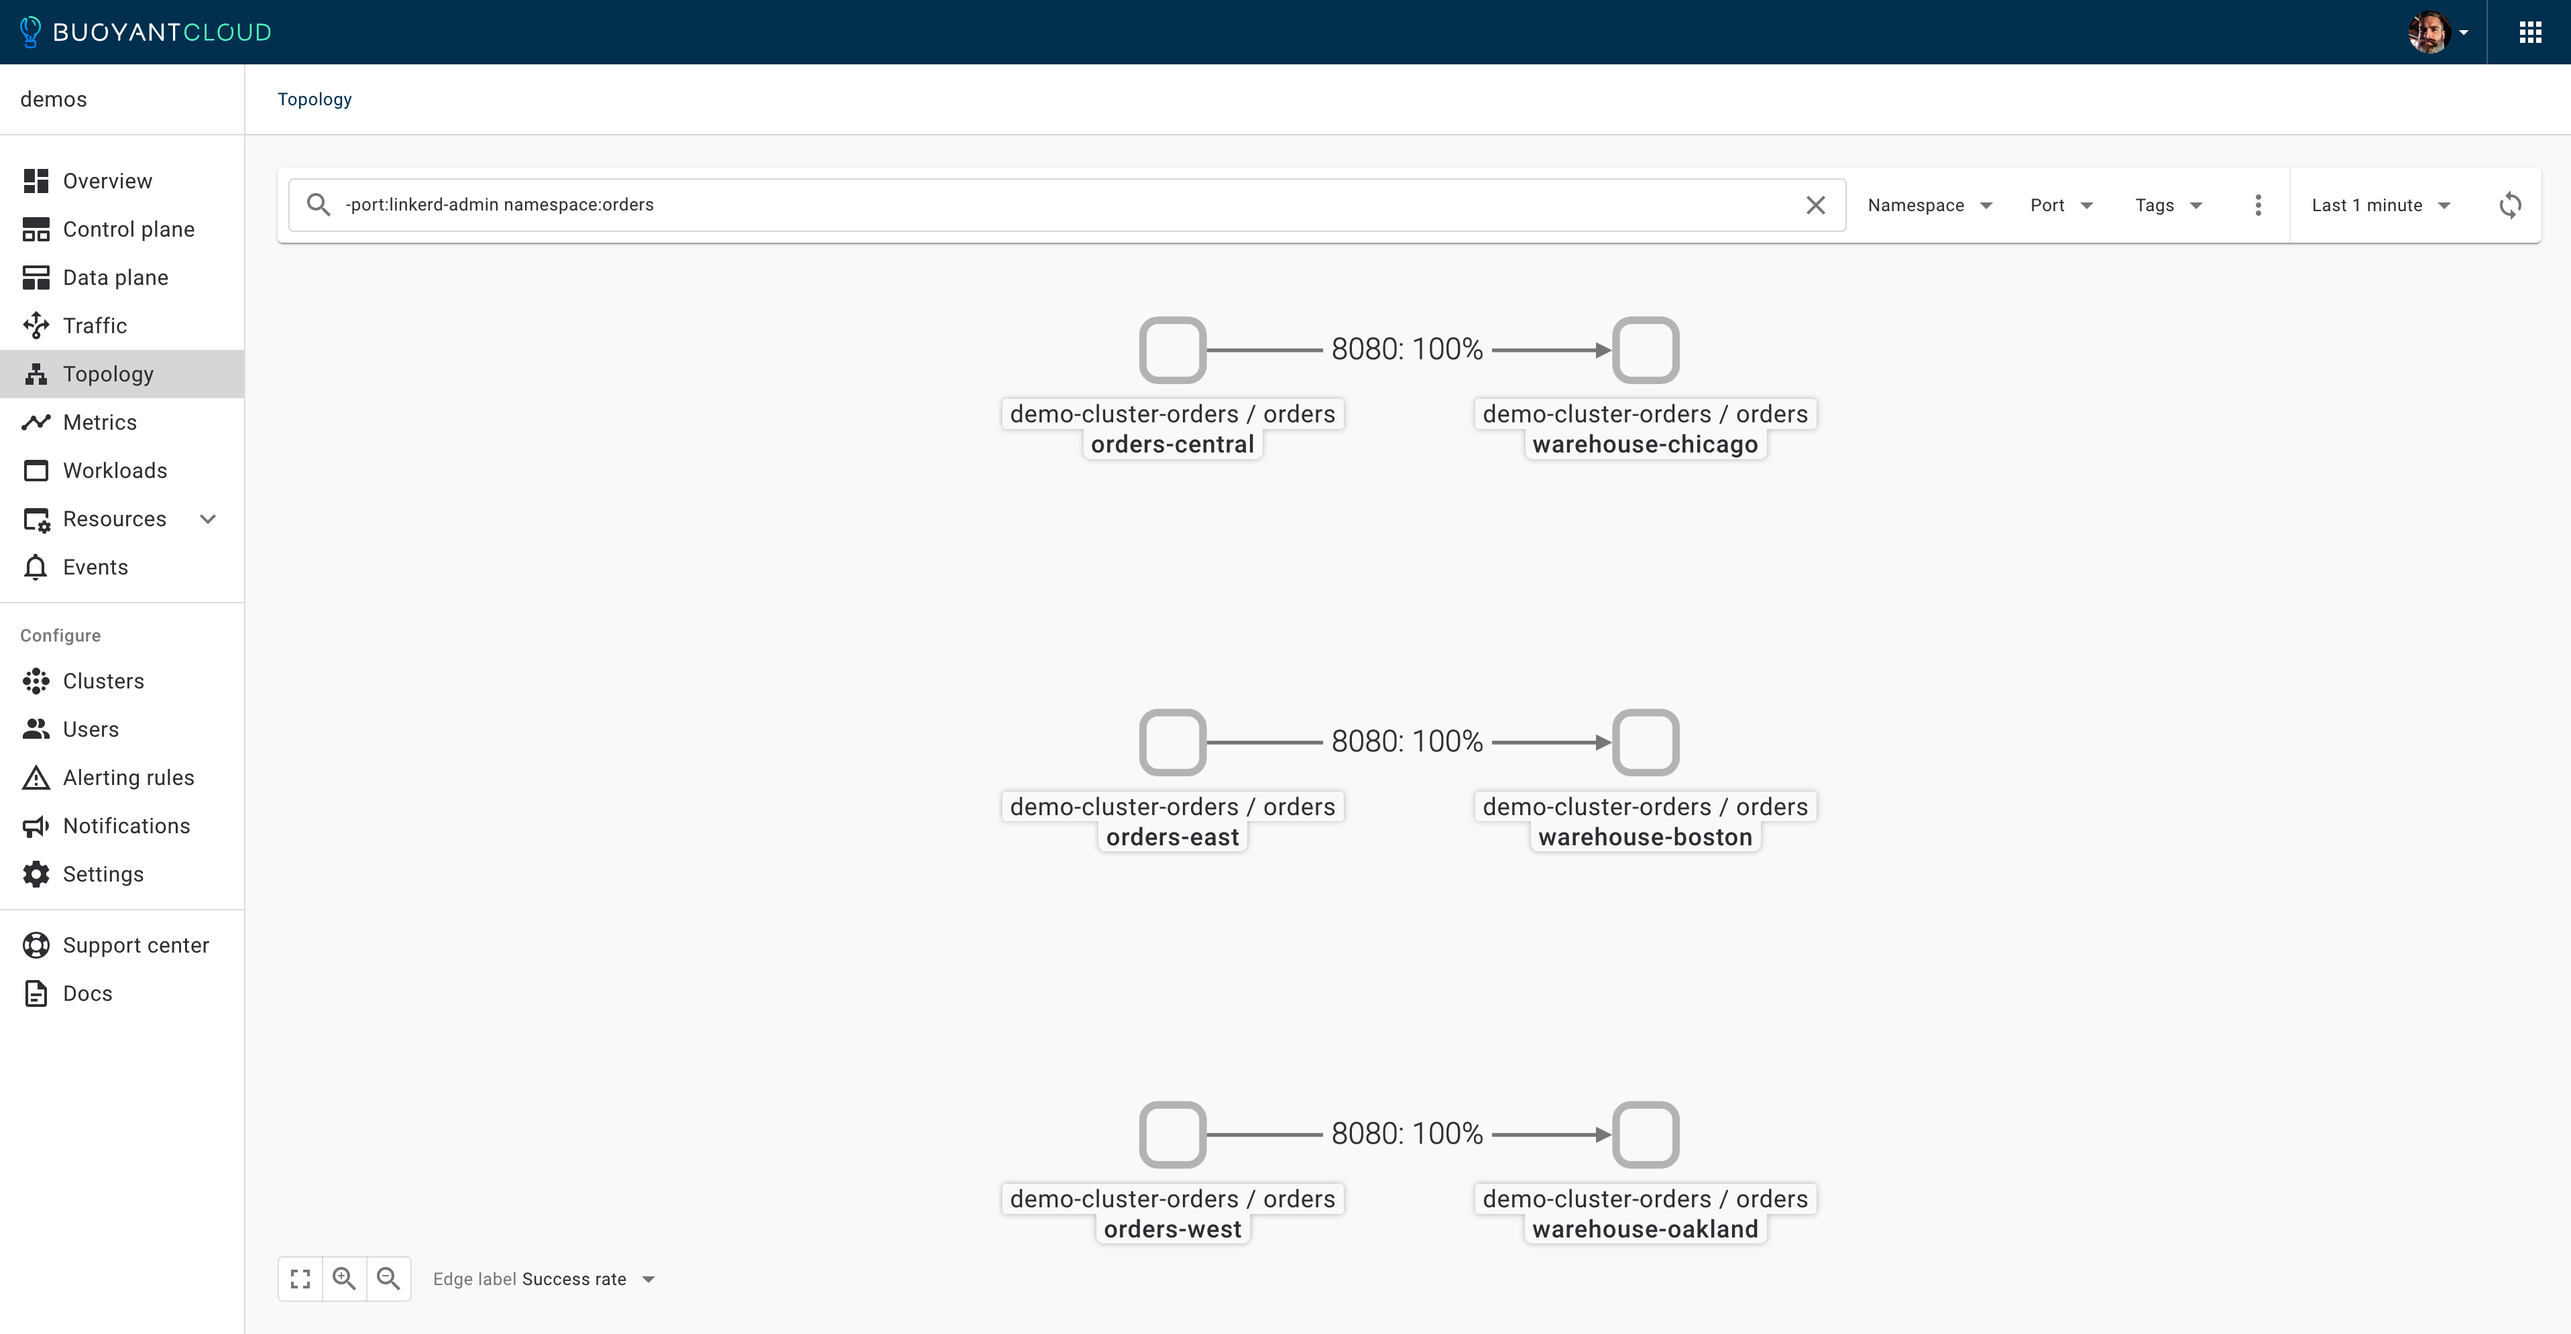
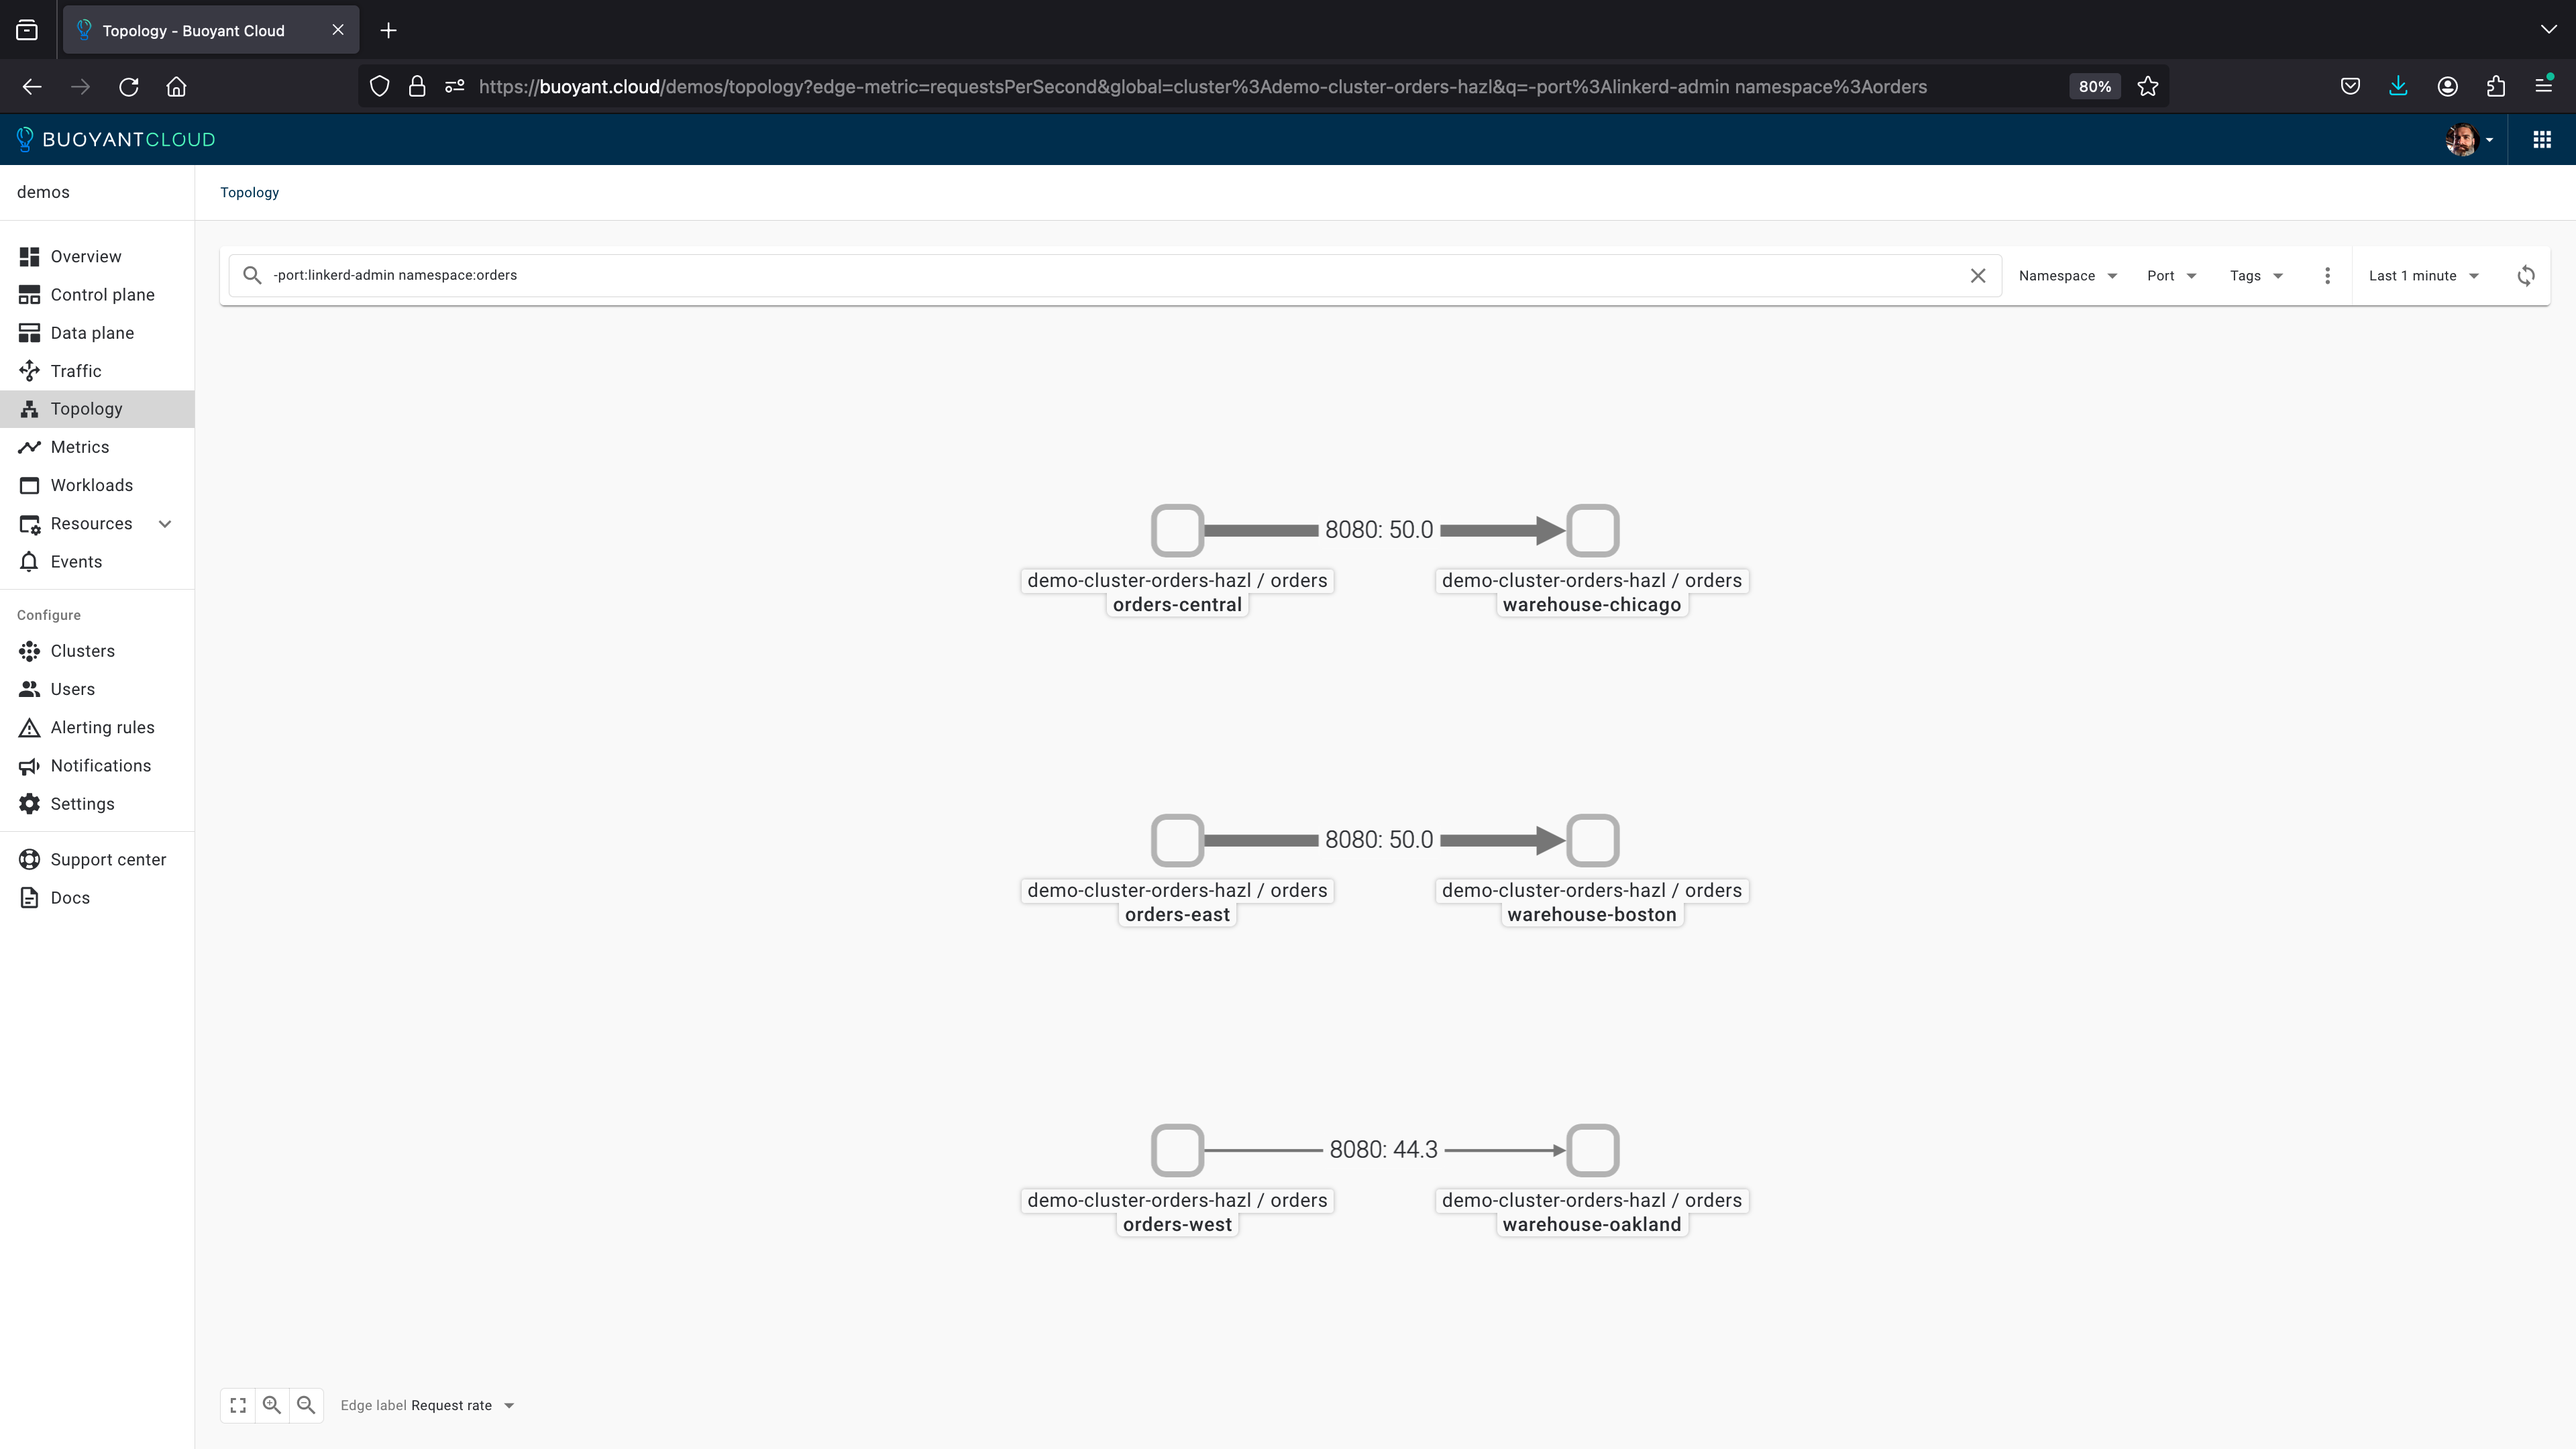
Work on README.md.  Added images.

diff --git a/eliminate-cross-zone-traffic-hazl/README.md b/eliminate-cross-zone-traffic-hazl/README.md
@@ -708,6 +708,10 @@ Let's take a look at traffic flow _without **HAZL** enabled_ in **Buoyant Cloud*
 
 ![Buoyant Cloud: Topology](images/orders-no-hazl-bcloud.png)
 
+![Grafana: HAZL Dashboard](images/orders-no-hazl-grafana.png)
+
+![Deployments / HPA](images/orders-no-hazl-deployments-hpa.png)
+
 We can see...
 
 ### Enable High Availability Zonal Load Balancing (HAZL)
@@ -736,6 +740,12 @@ Let's take a look at what traffic looks like with **HAZL** enabled, using **Buoy
 
 ![Buoyant Cloud: Topology](images/orders-hazl-bcloud.png)
 
+![Grafana: HAZL Dashboard](images/orders-hazl-grafana.png)
+
+![Deployments / HPA](images/orders-hazl-deployments-hpa.png)
+
+We can see...
+
 ### Increase Orders Traffic in `zone-east`
 
 A popular sitcom 
@@ -756,13 +766,13 @@ watch -n 1 kubectl get deploy,hpa -n orders
 
 Let's take a look at what the increased traffic looks like in **Buoyant Cloud**. This will give us a more visual representation of the effect of **HAZL** on our traffic.
 
-![Buoyant Cloud: Topology](images/orders-hazl-increased-load-bcloud.png)
+![Buoyant Cloud: Topology](images/orders-hazl-increased-east-bcloud.png)
 
-![Grafana: Dashboard](images/orders-hazl-increased-load-grafana.png)
+![Grafana: HAZL Dashboard](images/orders-hazl-increased-east-grafana.png)
+
+![Deployments / HPA](images/orders-hazl-increased-east-deployments-hpa.png)
 
 We can see...
-
-<<Explain what we're seeing here>>
 
 ### Increase Orders Traffic in `zone-central`
 
@@ -784,13 +794,13 @@ watch -n 1 kubectl get deploy,hpa -n orders
 
 Let's take a look at what the increased traffic looks like in **Buoyant Cloud**. This will give us a more visual representation of the effect of **HAZL** on our traffic.
 
-![Buoyant Cloud: Topology](images/orders-hazl-increased-load-bcloud.png)
+![Buoyant Cloud: Topology](images/orders-hazl-increased-central-bcloud.png)
 
-![Grafana: Dashboard](images/orders-hazl-increased-load-grafana.png)
+![Grafana: HAZL Dashboard](images/orders-hazl-increased-central-grafana.png)
+
+![Deployments / HPA](images/orders-hazl-increased-central-deployments-hpa.png)
 
 We can see...
-
-<<Explain what we're seeing here>>
 
 ### Increase Orders Traffic in `zone-west`
 
@@ -812,13 +822,13 @@ watch -n 1 kubectl get deploy,hpa -n orders
 
 Let's take a look at what the increased traffic looks like in **Buoyant Cloud**. This will give us a more visual representation of the effect of **HAZL** on our traffic.
 
-![Buoyant Cloud: Topology](images/orders-hazl-increased-load-bcloud.png)
+![Buoyant Cloud: Topology](images/orders-hazl-increased-west-bcloud.png)
 
-![Grafana: Dashboard](images/orders-hazl-increased-load-grafana.png)
+![Grafana: HAZL Dashboard](images/orders-hazl-increased-west-grafana.png)
+
+![Deployments / HPA](images/orders-hazl-increased-west-deployments-hpa.png)
 
 We can see...
-
-<<Explain what we're seeing here>>
 
 ### Increase Latency in `zone-central`
 
@@ -861,13 +871,13 @@ kubectl rollout restart -n orders deploy warehouse-chicago
 
 Let's take a look at what the increased latency looks like in **Buoyant Cloud**. This will give us a more visual representation of the effect of **HAZL** on our traffic in response to increased latency.
 
-![Buoyant Cloud: Topology](images/orders-hazl-increased-load-bcloud.png)
+![Buoyant Cloud: Topology](images/orders-hazl-increased-latency-bcloud.png)
 
-![Grafana: Dashboard](images/orders-hazl-increased-load-grafana.png)
+![Grafana: HAZL Dashboard](images/orders-hazl-increased-latency-grafana.png)
+
+![Deployments / HPA](images/orders-hazl-increased-latency-deployments-hpa.png)
 
 We can see...
-
-<<Explain what we're seeing here>>
 
 ### Take the `warehouse-chicago` Deployment Offline in `zone-central`
 
@@ -889,13 +899,13 @@ watch -n 1 kubectl get deploy,hpa -n orders
 
 Let's take a look at what the increased traffic looks like in **Buoyant Cloud**. This will give us a more visual representation of the effect of **HAZL** on our traffic.
 
-![Buoyant Cloud: Topology](images/orders-hazl-increased-load-bcloud.png)
+![Buoyant Cloud: Topology](images/orders-hazl-chicago-offline-bcloud.png)
 
-![Grafana: Dashboard](images/orders-hazl-increased-load-grafana.png)
+![Grafana: HAZL Dashboard](images/orders-hazl-chicago-offline-grafana.png)
+
+![Deployments / HPA](images/orders-hazl-chicago-offline-deployments-hpa.png)
 
 We can see...
-
-<<Explain what we're seeing here>>
 
 ### Bring the `warehouse-chicago` Deployment Back Online and Remove Latency
 
@@ -929,13 +939,13 @@ watch -n 1 kubectl get deploy,hpa -n orders
 
 Let's take a look at what the service restoration looks like in **Buoyant Cloud**. This will give us a more visual representation of the effect of **HAZL** on our traffic.
 
-![Buoyant Cloud: Topology](images/orders-hazl-increased-load-bcloud.png)
+![Buoyant Cloud: Topology](images/orders-hazl-chicago-restored-bcloud.png)
 
-![Grafana: Dashboard](images/orders-hazl-increased-load-grafana.png)
+![Grafana: HAZL Dashboard](images/orders-hazl-chicago-restored-grafana.png)
+
+![Deployments / HPA](images/orders-hazl-chicago-restored-deployments-hpa.png)
 
 We can see...
-
-<<Explain what we're seeing here>>
 
 ### Reset the Orders Application
 
@@ -955,14 +965,14 @@ watch -n 1 kubectl get deploy,hpa -n orders
 
 If we give things a minute to settle back down, we should see all traffic back in zone and request rates back to 50.
 
-![Buoyant Cloud: Topology](images/orders-hazl-increased-load-bcloud.png)
+![Buoyant Cloud: Topology](images/orders-hazl-app-reset-bcloud.png)
 
-![Grafana: Dashboard](images/orders-hazl-increased-load-grafana.png)
+![Grafana: HAZL Dashboard](images/orders-hazl-app-reset-grafana.png)
+
+![Deployments / HPA](images/orders-hazl-app-reset-deployments-hpa.png)
 
 We can see...
 
-<<Explain what we're seeing here>>
-
 ## Summary: Deploying the Orders Application With High Availability Zonal Load Balancing (HAZL)
 
-<<Summarize the entire thing here. Bullet points?>>
+Summarize the entire thing here. Bullet points?
